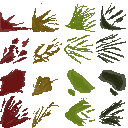
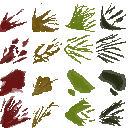
lots of weapon fix

diff --git a/scripts/tools/BloodPool.cs b/scripts/tools/BloodPool.cs
@@ -9,17 +9,24 @@ public partial class BloodPool : Node2D
        BlackBloodRect  = new Rect2(96,0,32,32);
 
     [Export] public int Size = 100;
-    [Export] public Texture2D BloodTexture;
+    [Export] public Texture2D BloodTexture, MiniBloodTexture;
     
     public Sprite2D[] BloodSprites; 
     public float[] Time;
-    
     public int CurrentTicket = 0; 
+    
+    public Sprite2D[] MiniSprites;
+    public float[] MiniTime;
+    public int CurrentMiniTicket = 0;
+    
     RandomNumberGenerator _rng = new RandomNumberGenerator();
     
     private const float LifeTime = 20f;
     private const float FadeTime = 3f;
     private const float GrowTime = 0.5f;
+    
+    private const float MiniLifeTime = 4f; // Жизнь мини-брызг
+    private const float MiniFadeTime = 1f; // Время затухания мини-брызг
     
     public override void _Ready()
     {
@@ -31,6 +38,10 @@ public partial class BloodPool : Node2D
        _rng.Randomize();
        BloodSprites = new Sprite2D[Size];
        Time = new float[Size];
+       
+       int miniPoolSize = Size * 5;
+       MiniSprites = new Sprite2D[miniPoolSize];
+       MiniTime = new float[miniPoolSize];
        
        for (int i = 0; i < Size; i++) {
           var sprite = new Sprite2D() {
@@ -44,13 +55,26 @@ public partial class BloodPool : Node2D
           AddChild(sprite);
           Time[i] = 0f;
        }
+       
+       for (int i = 0; i < miniPoolSize; i++) {
+          var miniSprite = new Sprite2D() {
+             Texture = MiniBloodTexture,
+             Visible = false,
+             RegionEnabled = true,
+             RegionRect = BloodRect,
+             Offset = new Vector2(16, -16) 
+          };
+          MiniSprites[i] = miniSprite;
+          AddChild(miniSprite);
+          MiniTime[i] = 0f;
+       }
     }
 
-    public void CreateTicket(Vector2 pos,Rect2 region, float rot)
+    public void CreateTicket(Vector2 pos, Rect2 region, float rot)
     {
        var sprite = BloodSprites[CurrentTicket];
        sprite.Position = pos;
-       sprite.Rotation = rot;
+       sprite.Rotation = rot + Mathf.Pi/4;
        sprite.Visible = true;
        sprite.Modulate = Colors.White;
        sprite.RegionRect = new Rect2(region.Position + Vector2.Down * _rng.RandiRange(0, 3) * 32, region.Size);
@@ -60,21 +84,41 @@ public partial class BloodPool : Node2D
        
        Time[CurrentTicket] = LifeTime;
        CurrentTicket = (CurrentTicket + 1) % Size;
+       
+       int miniCount = _rng.RandiRange(2, 5); 
+       
+       for (int i = 0; i < miniCount; i++)
+       {
+           var mini = MiniSprites[CurrentMiniTicket];
+           
+           Vector2 randomOffset = new Vector2(_rng.RandfRange(-20f, 20f), _rng.RandfRange(-20f, 20f));
+           mini.Position = pos + randomOffset;
+           
+           mini.Rotation = rot + _rng.RandfRange(-Mathf.Pi,  Mathf.Pi)/4 + Mathf.Pi/4; 
+           mini.Visible = true;
+           mini.Modulate = Colors.White;
+           mini.RegionRect = new Rect2(region.Position + Vector2.Down * _rng.RandiRange(0, 3) * 32, region.Size);
+           
+           float miniScale = _rng.RandfRange(0.2f, 0.6f), maxiScale = _rng.RandfRange(0.2f, 0.6f);
+           mini.Scale = new Vector2(miniScale, maxiScale);
+           
+           MiniTime[CurrentMiniTicket] = MiniLifeTime;
+           CurrentMiniTicket = (CurrentMiniTicket + 1) % (Size * 5);
+       }
     }
 
     public override void _Process(double delta)
     {
+       var dt = (float)delta;
        for (var i = 0; i < Size; i++) {
           var blood = BloodSprites[i];
           if (!blood.Visible) continue;
-
-          Time[i] -= (float)delta;
+          Time[i] -= dt;
           
           switch (Time[i]) {
              case > LifeTime - GrowTime: {
-                float elapsed = LifeTime - Time[i];   
-                float t = elapsed / GrowTime;          
-             
+                float elapsed = LifeTime - Time[i];
+                float t = elapsed / GrowTime;
                 float currentScale = Mathf.Lerp(1f / 32f, 1f, Mathf.Sqrt(t));
                 blood.Scale = new Vector2(currentScale, currentScale);
                 break; }
@@ -89,6 +133,27 @@ public partial class BloodPool : Node2D
                 blood.Visible = false; break;
           }
        }
+       
+       for (var i = 0; i < Size * 5; i++) {
+          var mini = MiniSprites[i];
+          if (!mini.Visible) continue;
+   
+          MiniTime[i] -= dt;
+          float elapsed = 4f - MiniTime[i];
+   
+          if (elapsed < 0.5f) {
+             float t = elapsed / 0.5f; 
+             float speed = 250f * Mathf.Pow(1f - t, 3); 
+      
+             mini.Position += Vector2.FromAngle(mini.Rotation - Mathf.Pi/4) * speed * dt;
+          }
+   
+          if (MiniTime[i] <= MiniFadeTime && MiniTime[i] > 0f) {
+             float alpha = MiniTime[i] / MiniFadeTime; 
+             mini.Modulate = new Color(1, 1, 1, alpha);
+          }else if (MiniTime[i] <= 0f)
+             mini.Visible = false;
+          
+       }
     }
-    
 }

diff --git a/scripts/player/PlayerController.cs b/scripts/player/PlayerController.cs
@@ -29,6 +29,7 @@ public partial class PlayerController : Unit
     [Export] private Camera2D _camera;
     [Export] public Node2D HandNode;
     [Export] public AnimatedSprite2D AnimSprite;
+    [Export] public CpuParticles2D ChangeParticles;
     
     private bool _inBattle = false;
     
@@ -39,7 +40,7 @@ public partial class PlayerController : Unit
     public int CurrentSoulIndex = 0;
     public int CurrentWeaponIndex = 0;
     
-    private float _shakeStrength = 0f;
+    private float _shakeStrength = 0f, _selectionCooldown = 0f;
     private readonly float _shakeDecayRate = 5f;
     private readonly Vector2 _normalZoom = new Vector2(2f, 2f);
     private readonly Vector2 _battleZoom = new Vector2(1.8f, 1.8f); 
@@ -59,6 +60,9 @@ public partial class PlayerController : Unit
 
     public override void _PhysicsProcess(double delta)
     {
+        if (_selectionCooldown > 0f)
+            _selectionCooldown -= (float)delta;
+        
         HandleMovement((float)delta);
         HandleSelectionInputs();
         if (Input.IsActionPressed("lm"))
@@ -89,11 +93,14 @@ public partial class PlayerController : Unit
 
     private void HandleSelectionInputs()
     {
-        if (Input.IsActionJustPressed("mwu")) SwitchSoul(1);
-        if (Input.IsActionJustPressed("mwd")) SwitchSoul(-1);
+        if (_selectionCooldown > 0f) return;
         
-        if (Input.IsActionJustPressed("q")) SwitchWeapon(1);
-        if (Input.IsActionJustPressed("e")) SwitchWeapon(-1);
+        if (Input.IsActionJustPressed("mwu")) SwitchSoul(1);
+        else if (Input.IsActionJustPressed("mwd")) SwitchSoul(-1);
+        else if (Input.IsActionJustPressed("q")) SwitchWeapon(1);
+        else if (Input.IsActionJustPressed("e")) SwitchWeapon(-1);
+        else return; 
+        _selectionCooldown = 1.5f;
     }
 
     void HandleAttack()
@@ -189,6 +196,9 @@ public partial class PlayerController : Unit
 
         shader.SetShaderParameter("use_gradient", true);
         shader.SetShaderParameter("gradient_texture", gradientTexture);
+        
+        ChangeParticles.ColorRamp = gradient;
+        ChangeParticles.Emitting = true;
     }
     
 

diff --git a/scripts/units/ai/Ai.cs b/scripts/units/ai/Ai.cs
@@ -113,10 +113,11 @@ public partial class Ai : Node2D
 					_movePos = _unit.GlobalPosition + 50 * Vector2.FromAngle(GD.Randf() * Mathf.Tau);
 					break;
 			}
-			if (_player != null && _unit.Weapon?.Resource != null && UnitAction == ActionType.Attack) 
-				_unit.Weapon.ExecuteShoot((_player.GlobalPosition - _unit.GlobalPosition).Angle(), _unit);
+			
 			_actionTime = 0f;
 		}
+		if (_player != null && _unit.Weapon?.Resource != null && UnitAction == ActionType.Attack) 
+			_unit.Weapon.ExecuteShoot((_player.GlobalPosition - _unit.GlobalPosition).Angle(), _unit);
 		
 		MoveBehavior();
 		_unit.MoveAndSlide();
